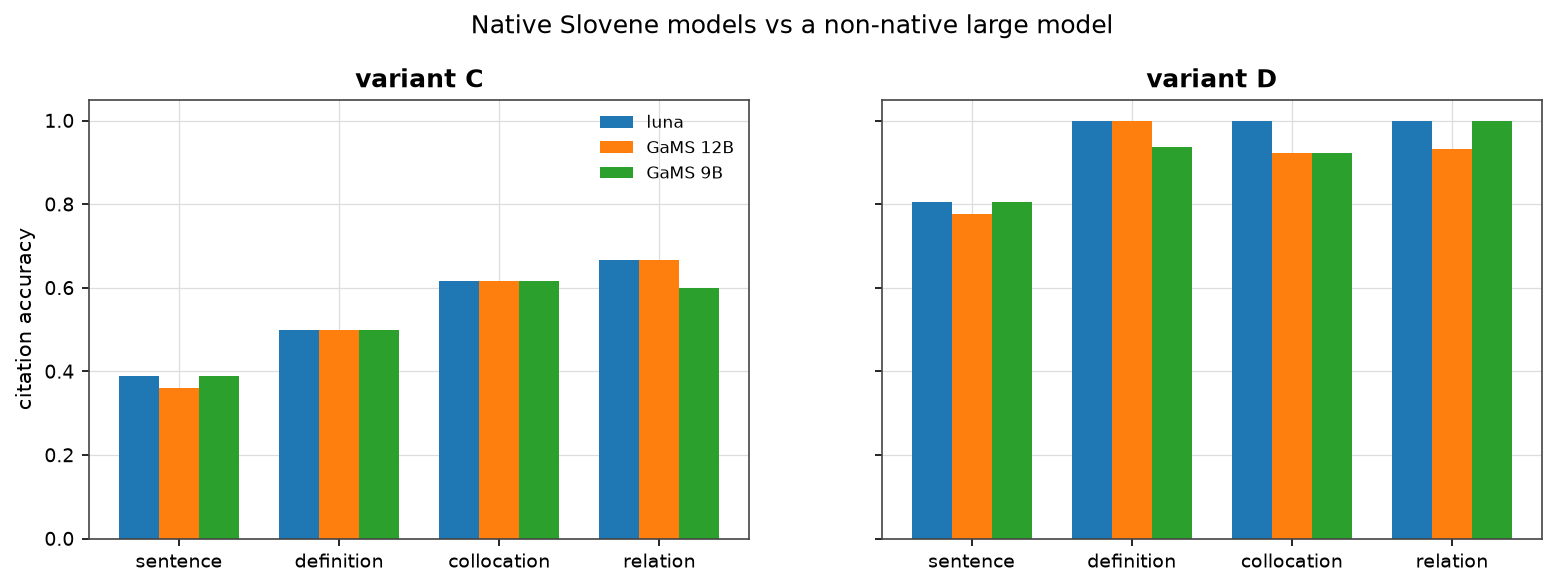
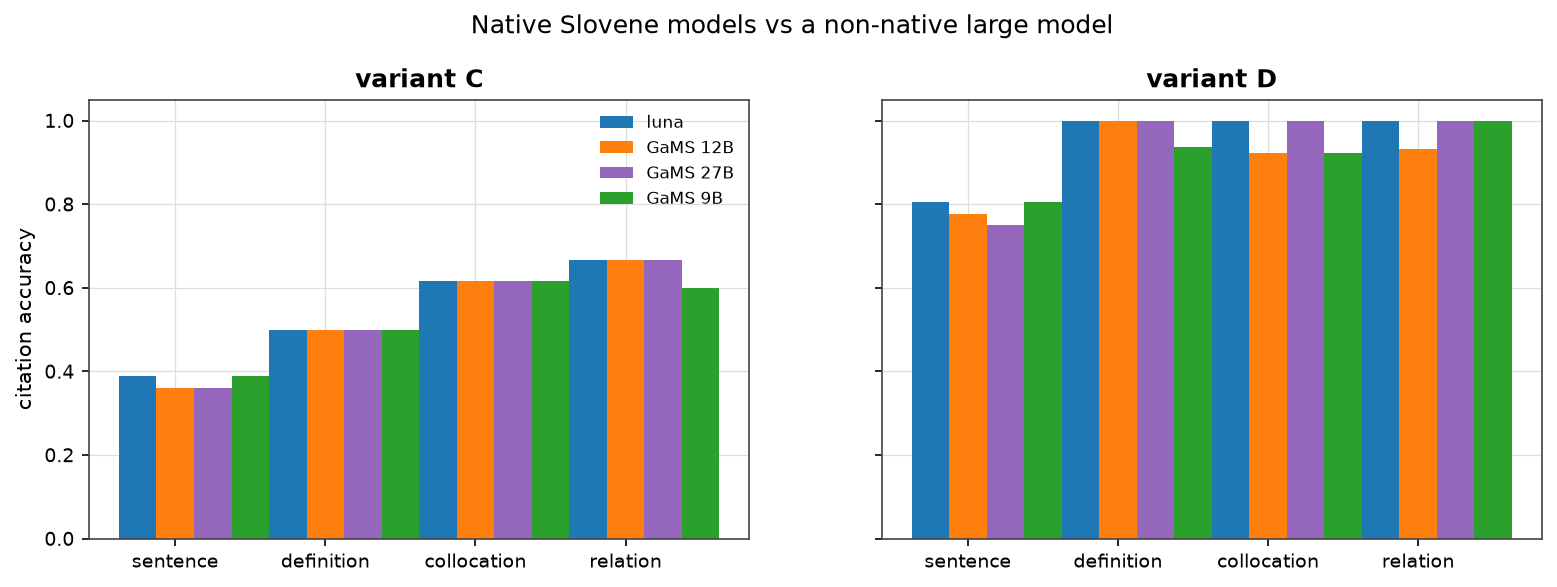
v3 round 2: 27B + Gemini, B-lemma on the new types, the hidden-collocation case
- all five models on the definition/collocation set: C 0.55, D 1.00 (27B, Gemini), oracle 0.83-0.86 (below D)
- B-lemma v3: overall B 0.52 -> 0.83 (luna) / 0.79 (12B); definitions 0.50-0.62 -> 1.00; hidden collocations stay at 0.40 -> the graph is the only method that solves them (D 1.00)
- notebook 09: full matrix, native-vs-non-native with 27B, new section 4 (hidden collocation), D-034 updated

diff --git a/docs/DECISIONS.md b/docs/DECISIONS.md
@@ -784,7 +784,17 @@ Results (cap 3, three models):
 
 The graph's advantage **generalises** from sentences to definitions and
 collocations: it repairs the buried and hidden cases and leaves the visible ones
-unchanged. Overall v3: C 0.55, D 1.00 / 0.97 / 0.93, B 0.52 / 0.52 / 0.48.
+unchanged. Overall v3: C 0.55, D 1.00 / 0.97 / 0.93, B 0.52 / 0.52 / 0.48;
+adding 27B and Gemini: C 0.55, D 1.00, oracle 0.83-0.86 (below D).
+
+**The hidden collocation is the graph's unique case.** Restricting text search to
+the target word (`--b-lemma`) lifts the v3 overall B from 0.52 to **0.83** (luna)
+/ **0.79** (12B) and the definition questions from 0.50-0.62 to **1.00**, but
+leaves the hidden-collocation questions at **0.40** - a collocation
+is not part of the sense's definition, so no definition-based search can find it.
+The graph reaches **1.00** there because it links the sense to its collocations.
+This is the cleanest evidence that the graph carries knowledge the context does
+not contain; everywhere else it mostly re-orders what is already visible.
 
 **The oracle is lower than D on this set** (0.86 / 0.86 / 0.79 vs 1.00 / 0.97 /
 0.93). Nothing is broken: the oracle prompt is different (gold + up to four
